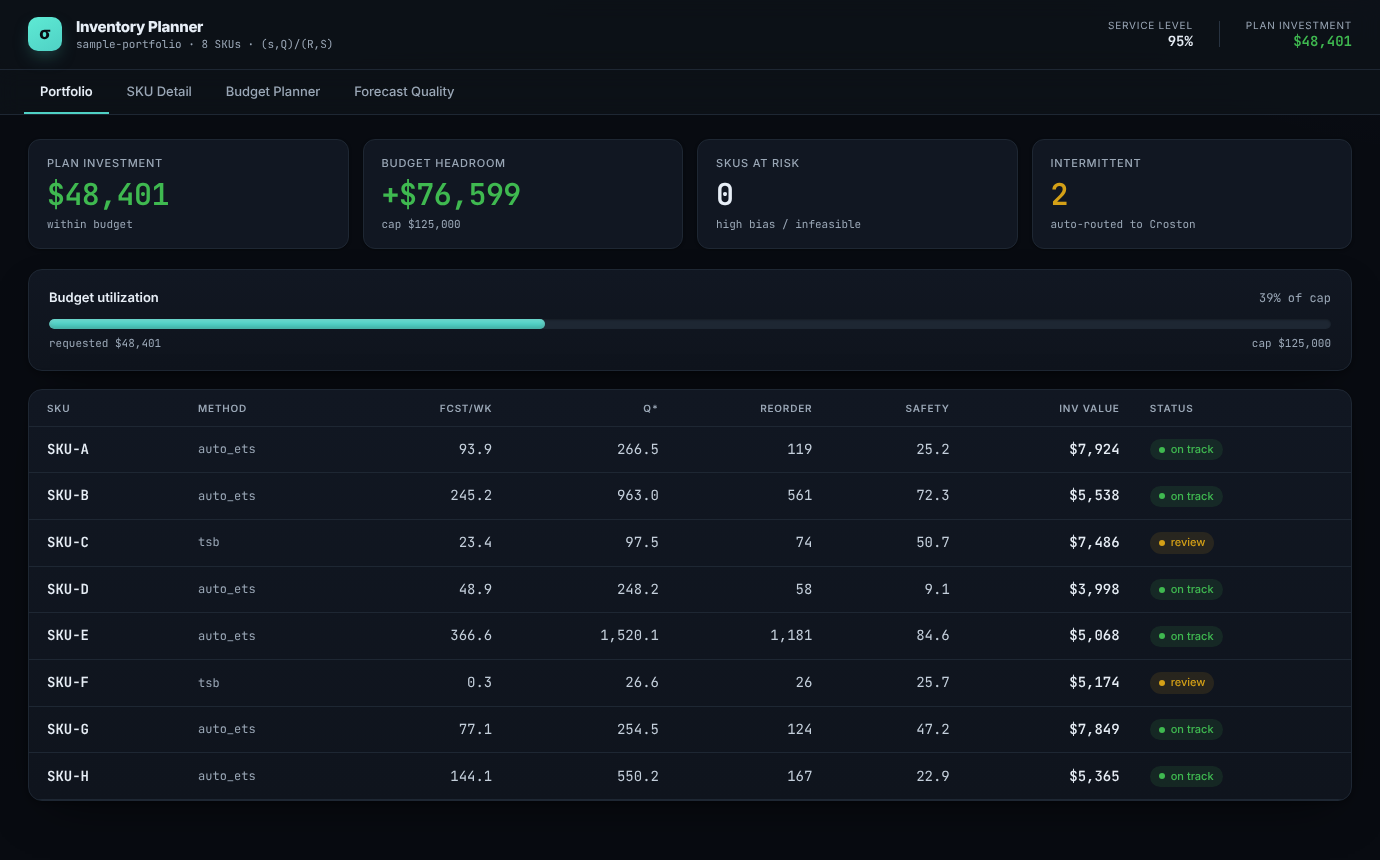
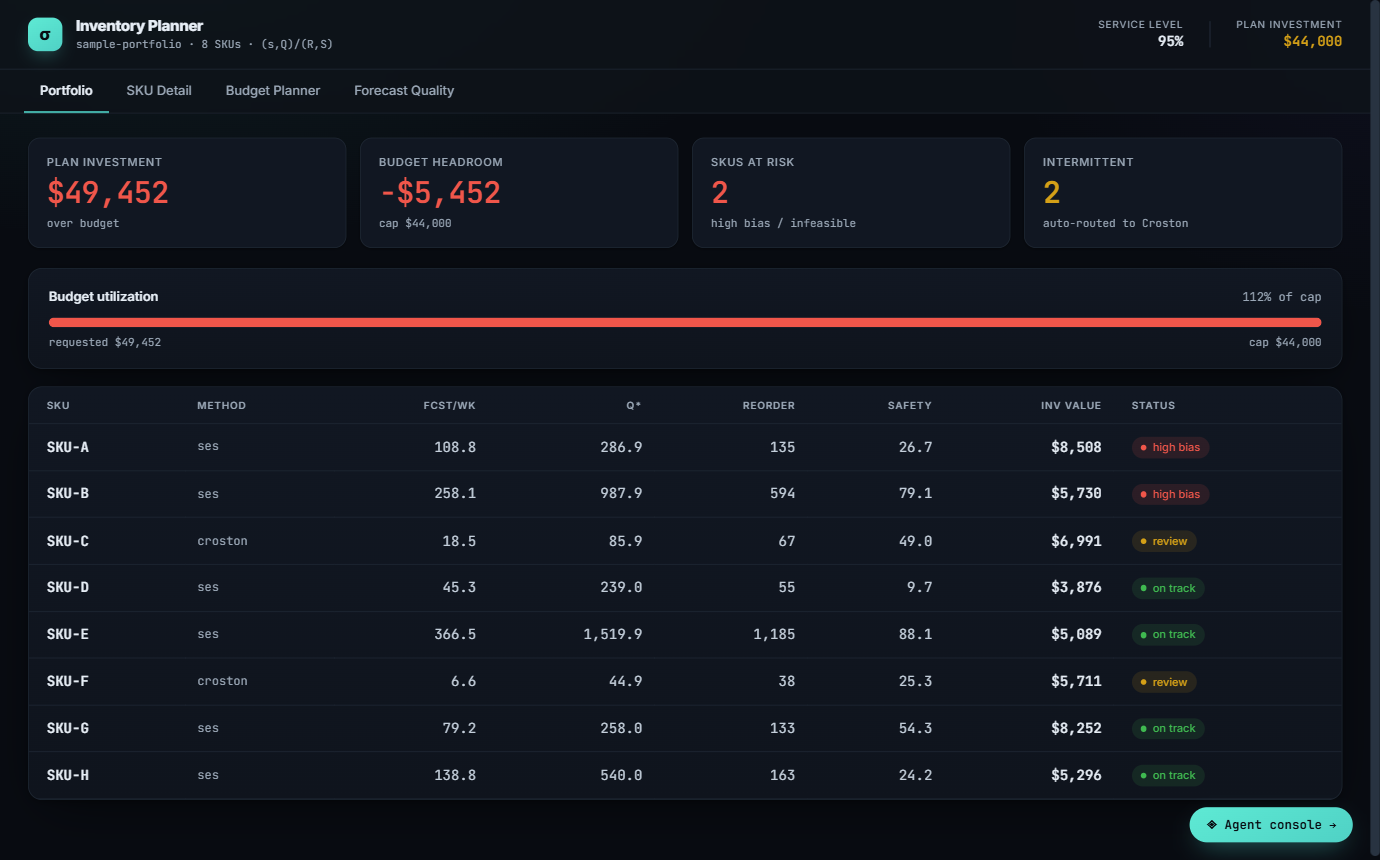
docs(readme): use the Claude Design hero and 3-step flow images
Replaces the leadership_chain console screenshot with the designed hero and adds the brief -> validation -> report strip. Dashboard and console screenshots restored to main. Figures in the images are illustrative and captioned as such.

Claude-Session: https://claude.ai/code/session_01HzzWRRU452Am5bEUE2aCei

diff --git a/README.md b/README.md
@@ -17,15 +17,24 @@
 
 </div>
 
-![Kern console — a brief routed to the leadership_chain capability, returning a CHAIN profile with downloadable chart and report](docs/assets/scm-agent-console.png)
+![Kern: a brief and a CSV in, a validated inventory plan out](docs/assets/kern-hero.png)
 
-<div align="center"><sub>The live agent console (<code>webapp/static/prototype/</code>) talking to the real <code>POST /api/jobs</code>.</sub></div>
+<div align="center"><sub>Illustrative example. The live agent console (<code>webapp/static/prototype/</code>) talks to the real <code>POST /api/jobs</code>.</sub></div>
 
 ---
 
 ## ⚡ What it does
 
 Give it a brief; it **classifies → runs → validates (QA) → delivers**. If QA fails, nothing ships.
+
+<table>
+<tr>
+<td width="33%"><img src="docs/assets/kern-brief.png" alt="Write what you need in plain language; Kern turns it into parameters: service level, scope, inventory cap, lead time, warehouses"><br><sub><b>1 · Brief</b> — plain language in, parameters out.</sub></td>
+<td width="33%"><img src="docs/assets/kern-plan.png" alt="Validated plan table with safety stock, reorder point and order quantity per SKU, plus budget, service and warning checks"><br><sub><b>2 · Validation</b> — no number ships without passing the checks.</sub></td>
+<td width="33%"><img src="docs/assets/kern-sources.png" alt="A report sentence with numbered citations pointing to the spreadsheet cell, the CSV rows and the brief line each number came from"><br><sub><b>3 · Report</b> — every recommendation cites its source.</sub></td>
+</tr>
+</table>
+<div align="center"><sub>Illustrative figures (SKUs, budget) to show the flow, not a measured run.</sub></div>
 
 ```mermaid
 flowchart LR
